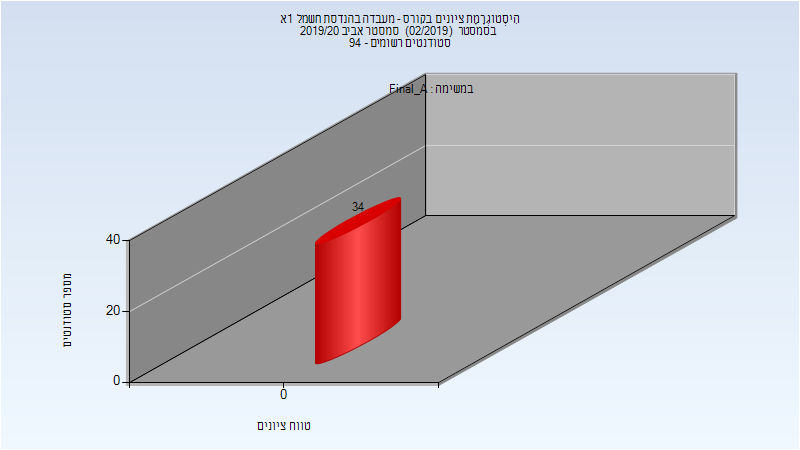
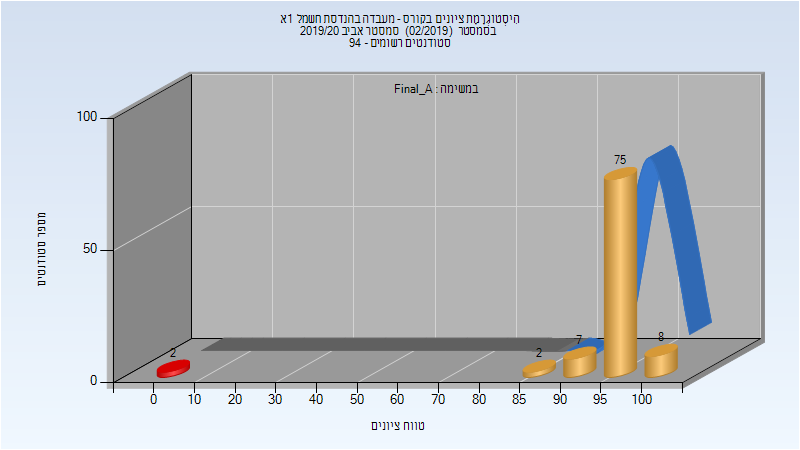
Deploy michael-maltsev/technion-histograms to github.com/michael-maltsev/technion-histograms.git:gh-pages

diff --git a/044157/index.html b/044157/index.html
@@ -308,13 +308,13 @@
 </thead>
 <tbody>
 <tr>
-<td>34</td>
-<td>0/34</td>
+<td>94</td>
+<td>92/2</td>
+<td>98</td>
 <td>0</td>
-<td>0</td>
-<td>1</td>
-<td>0.088</td>
-<td>0</td>
+<td>100</td>
+<td>95.138</td>
+<td>98</td>
 </tr>
 </tbody>
 </table>

diff --git a/044157/README.md b/044157/README.md
@@ -96,5 +96,5 @@
 
 | סטודנטים | עברו/נכשלו | אחוז עוברים | ציון מינימלי | ציון מקסימלי | ממוצע | חציון |
 | ---- | ---- | ---- | ---- | ---- | ---- | ---- |
-| 34 | 0/34 | 0 | 0 | 1 | 0.088 | 0 |
+| 94 | 92/2 | 98 | 0 | 100 | 95.138 | 98 |
 
